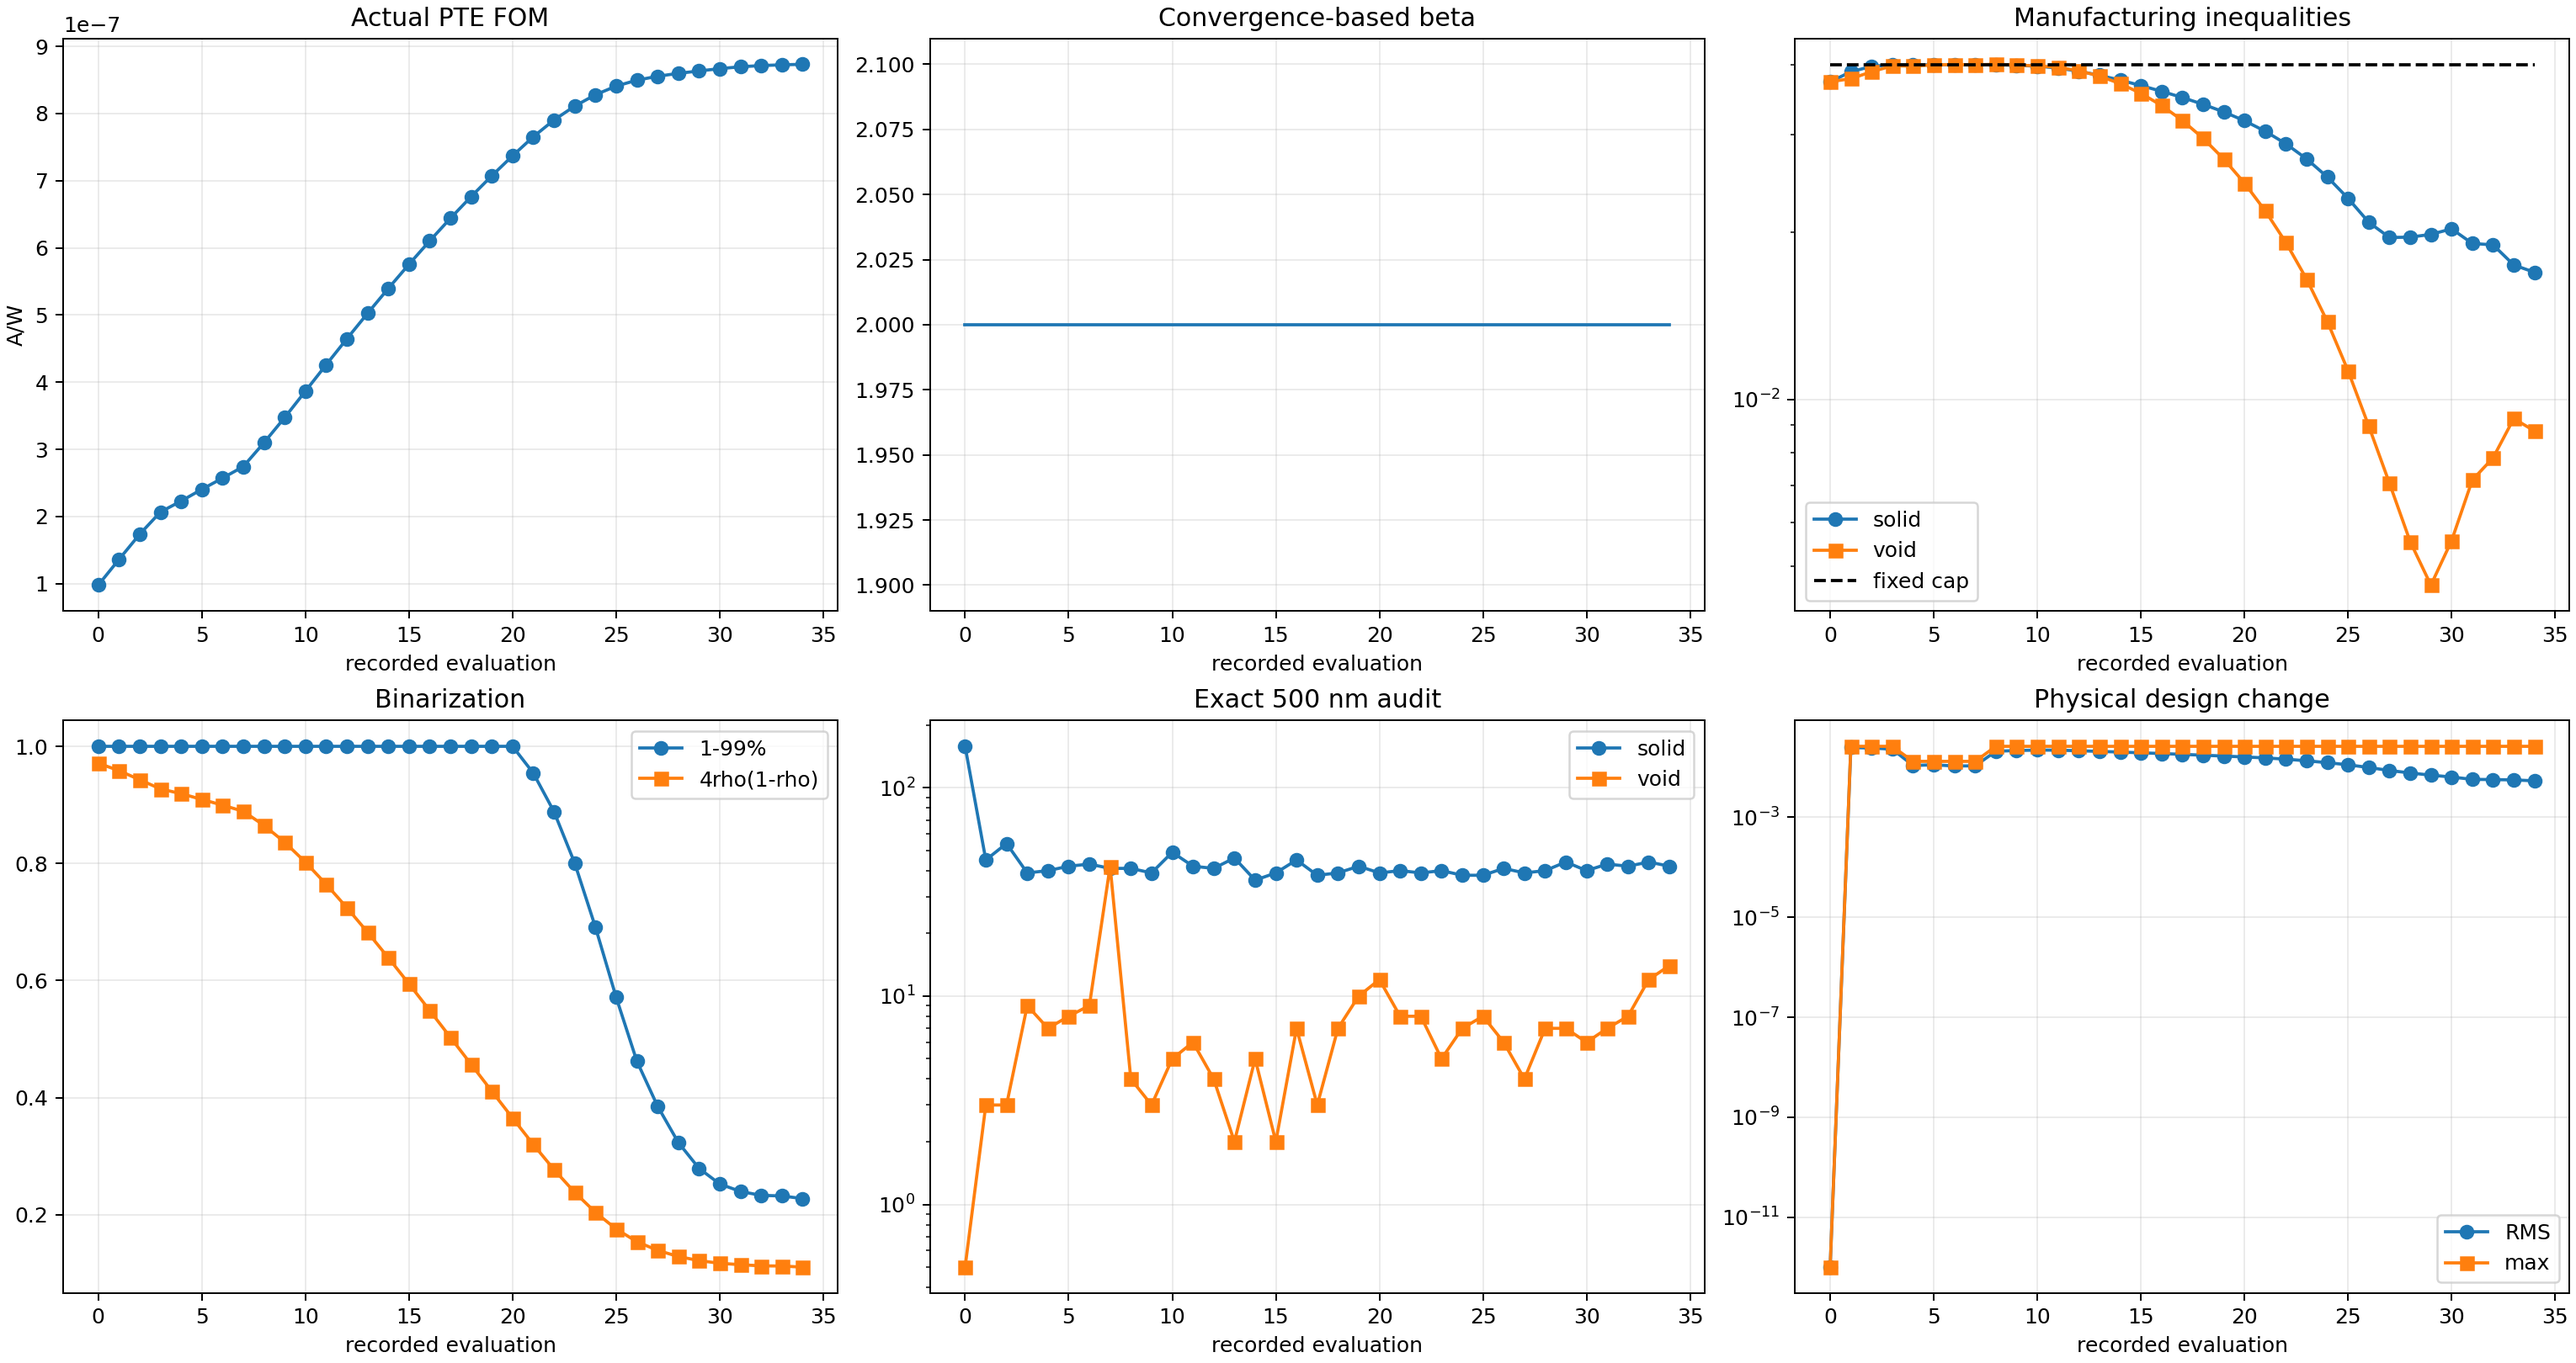
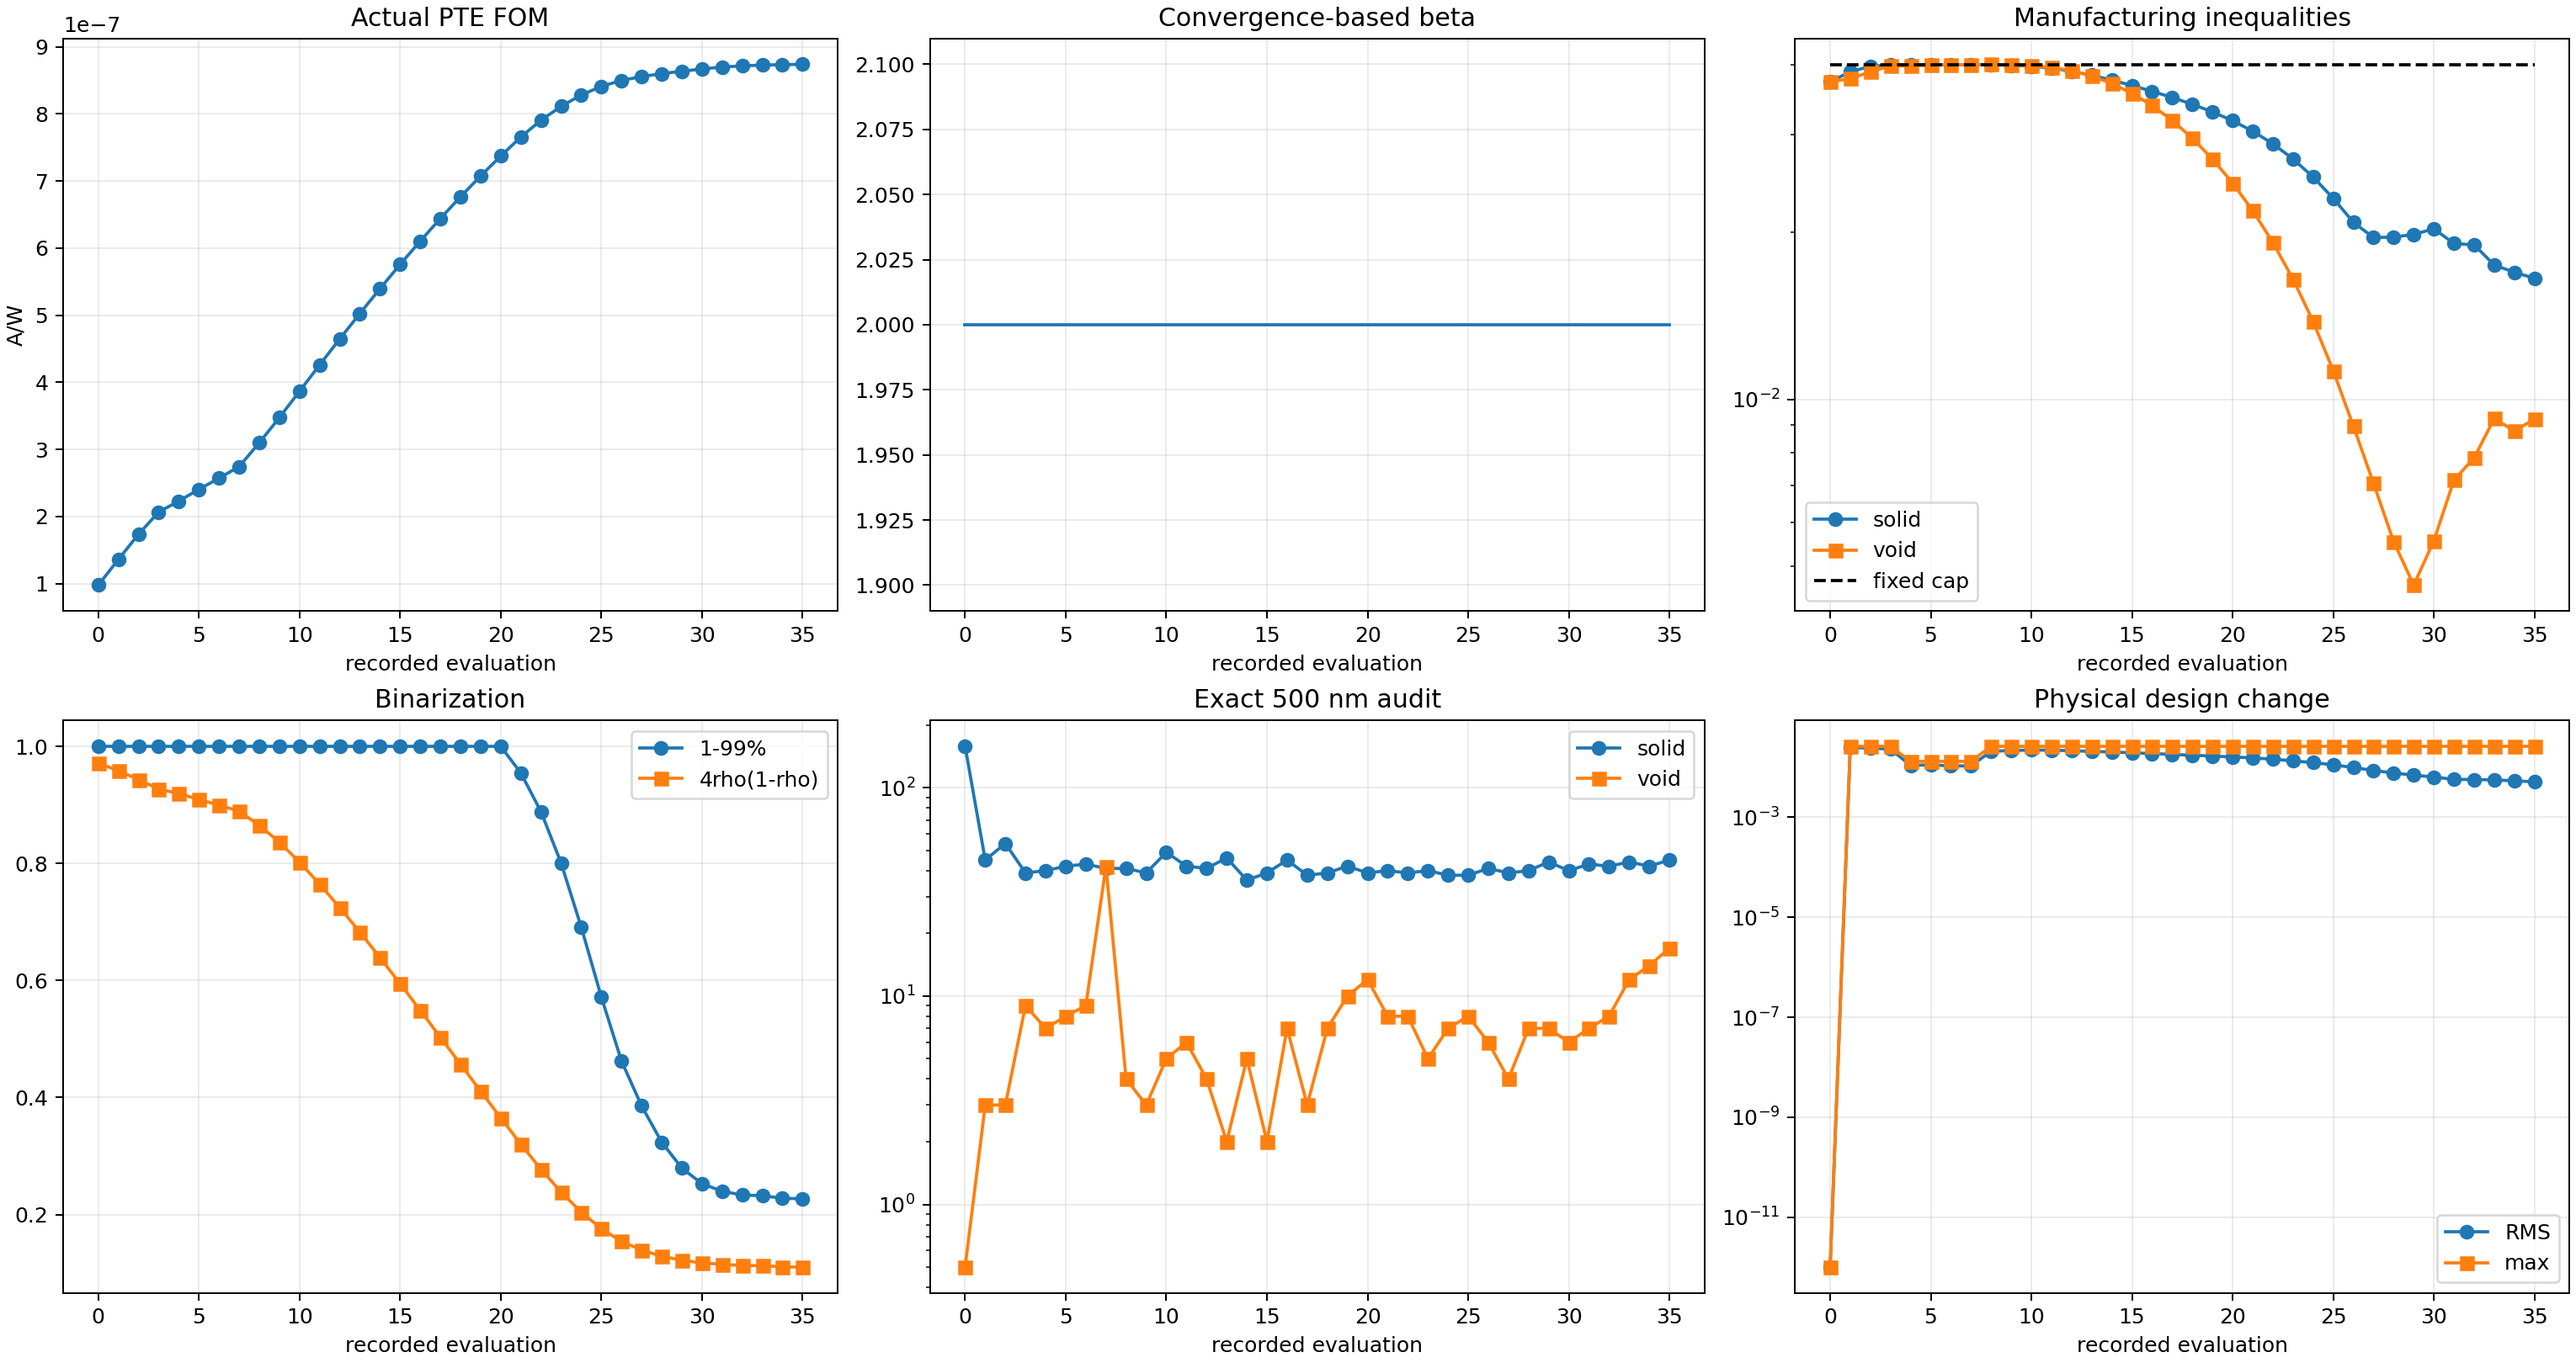
Record Run 003 run003_b002_s035_g035_accepted_mma

diff --git a/photothermal_pte/optimization_runs/run_003_gaussian10_w8p5_current_max_converged/results/OPTIMIZATION_REPORT.md b/photothermal_pte/optimization_runs/run_003_gaussian10_w8p5_current_max_converged/results/OPTIMIZATION_REPORT.md
@@ -2,10 +2,10 @@
 
 Status: `RUNNING_CONVERGENCE_BASED_CONSTRAINED_BETA_CONTINUATION`
 
-Current stage: beta=2, accepted stage iteration=34, global iteration=34.
+Current stage: beta=2, accepted stage iteration=35, global iteration=35.
 
-Actual FOM: `8.733416788317e-07 A/W`. Fixed-cap solid/void constraints: `1.693174e-02` / `8.766600e-03` with cap `4.000000e-02`.
+Actual FOM: `8.737676795005e-07 A/W`. Fixed-cap solid/void constraints: `1.651743e-02` / `9.210242e-03` with cap `4.000000e-02`.
 
-Exact 500 nm bad cells: solid `42`, void `14`. Stage convergence: `False` (recent FOM/density changes have not plateaued).
+Exact 500 nm bad cells: solid `45`, void `17`. Stage convergence: `False` (recent FOM/density changes have not plateaued).
 
 Beta is promoted only after fixed-inequality feasibility and a four-update FOM/design plateau; it is never promoted after one nominal update.
